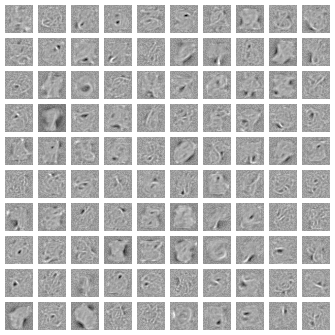
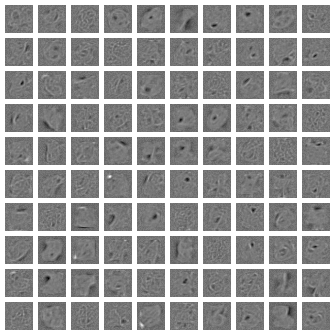
updated momentum optim

diff --git a/Assignment_2/ae_theano.py b/Assignment_2/ae_theano.py
@@ -34,6 +34,26 @@ def init_bias(n):
                          borrow=True)
 
 
+class sgd(object):
+    def __init__(self, params):
+        self.memory_ = [theano.shared(np.zeros_like(p.get_value()))
+                        for p in params]
+	self.moment = 0.1
+
+    def updates(self, cost, params, learning_rate, momentum=False):
+        updates = []
+	grads = T.grad(cost, params)
+        for n, (param, grad) in enumerate(zip(params, grads)):
+	    if momentum:
+            	memory = self.memory_[n]
+            	update = self.moment * memory - learning_rate * grad
+            	updates.append((memory, update))
+            	updates.append((param, param + update))
+	    else:
+            	updates.append((param, param - learning_rate * grad))
+        return updates
+
+'''
 def sgd(cost, params, learning_rate, momentum=False):
     grads = T.grad(cost, params)
     updates = []
@@ -47,7 +67,7 @@ def sgd(cost, params, learning_rate, momentum=False):
         else:
             updates.append((p, p - learning_rate * g))
     return updates
-
+'''
 
 def cross_entropy(x, h):
     c = T.mean(T.sum(x * T.log(h) + (1 - x) * T.log(1 - h), axis=1))
@@ -119,13 +139,17 @@ else:
 costffn = T.mean(T.nnet.categorical_crossentropy(y_classify, y_))
 
 params1 = [W1, b1, b1_prime]
-updates1 = sgd(cost1, params1, learning_rate, momentum=momentum)
+opt1 = sgd(params1)
+updates1 = opt1.updates(cost1, params1, learning_rate, momentum=momentum)
 params2 = [W2, b2, b2_prime]
-updates2 = sgd(cost2, params2, learning_rate, momentum=momentum)
+opt2 = sgd(params2)
+updates2 = opt2.updates(cost2, params2, learning_rate, momentum=momentum)
 params3 = [W3, b3, b3_prime]
-updates3 = sgd(cost3, params3, learning_rate, momentum=momentum)
+opt3 = sgd(params3)
+updates3 = opt3.updates(cost3, params3, learning_rate, momentum=momentum)
 paramsffn = [W1, b1, W2, b2, W3, b3, W4, b4]
-updatesffn = sgd(costffn, paramsffn, learning_rate, momentum=momentum)
+optffn = sgd(paramsffn)
+updatesffn = optffn.updates(costffn, paramsffn, learning_rate, momentum=momentum)
 
 corrupted = theano.function(inputs=[x], outputs=tilde_x, allow_input_downcast=True)
 train_da1 = theano.function(inputs=[x], outputs=cost1, updates=updates1, allow_input_downcast=True)
